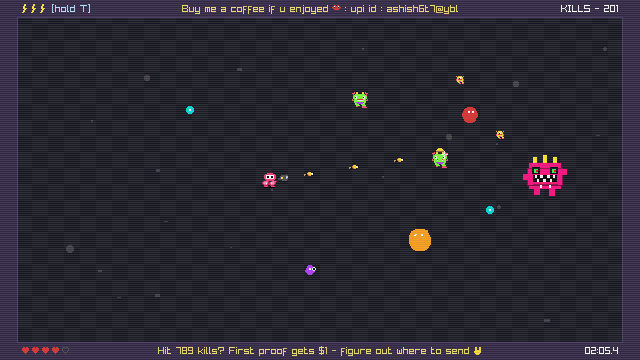
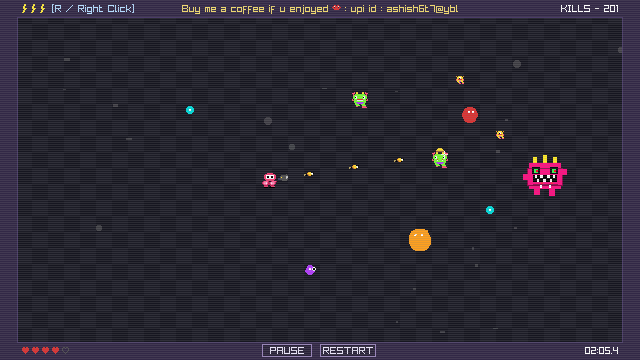
chore: update screenshots and README for v2.0.0 upgrades

diff --git a/README.md b/README.md
@@ -17,9 +17,9 @@ A deliberately ridiculous, endless, single-screen top-down 90s-arcade shooter. Y
 
 ## 🌐 Play Instantly in Your Browser (No Download Required!) ⚡
 
-### 👉 [**Click Here to Play DontTouchMyBum in Browser**](https://ashish6t7.github.io/DontTouchMyBum/) 🍑👾
+You can play the complete game right now directly in your web browser — powered by WebAssembly:
 
-<img width="1680" height="1050" alt="Screenshot 2026-11-26 at 10 57 19 AM" src="https://github.com/user-attachments/assets/679300d8-d9f1-4b02-8b05-9ae16d4e1cea" />
+### 👉 [**Click Here to Play DontTouchMyBum in Browser**](https://ashish6t7.github.io/DontTouchMyBum/) 🍑👾
 
 *Zero installation, zero setup, full 60fps arcade graphics & funny sound effects — simply open the link and defend your bums!*
 
@@ -56,13 +56,15 @@ At the start of the game, select your difficulty directly from the 3 visible int
 
 | Difficulty Level | Health & Healing | Style |
 |---|:---:|---|
-| **`1. Gentle Bum (Relaxed) 🍑✨`** | **6 Hearts**, Heals every **20 kills** | Relaxed, fun, and beginner-friendly arcade blasting |
-| **`2. Cheeky Bum (Balanced) 😈💋`** *(Default)* | **5 Hearts**, Heals every **30 kills** | Balanced, engaging arcade challenge |
-| **`3. Bum Apocalypse (Insane) 🍑🩸💀`** | **5 Hearts**, Heals every **40 kills** | Pure brutal hardcore chaos |
+| **`1. Gentle Bum (Relaxed) 🍑✌`** | **5 Hearts**, Heals every **20 kills** | Relaxed, fun, and beginner-friendly arcade blasting |
+| **`2. Cheeky Bum (Balanced) 💋`** *(Default)* | **5 Hearts**, Heals every **30 kills** | Balanced, engaging arcade challenge |
+| **`3. Bum Apocalypse (Insane) 🍑💀`** | **5 Hearts**, Heals every **40 kills** | Pure brutal hardcore chaos |
 
-### Additional Upgrades in v2.0.0:
-* **⚡ Thunder Ability (`[T]` key):** Ordinary BUM 🍑 protection wasn't enough, so hold `T` to unleash a devastating golden nuclear shockwave that vaporizes all on-screen monsters into sparks.
-* **🔊 New Funny Sound Effects and Dynamic Music** 
+### Additional Upgrades:
+* **⚡ Thunder Ability (`[R]` key or Right-Click):** Tap `R` or Right-Click to unleash a devastating golden nuclear shockwave that vaporizes all on-screen monsters into sparks. 40 kills = +1 ⚡ Thunder refill (up to max 3).
+* **🕺 New Zombie Monster "Disco":** Spawns every 35s with 50 HP and triggers custom procedural retro funky disco music! Killing Disco rewards +1 ❤ Heart refill (if hearts ≤ 3).
+* **💥 MiniBlob Invulnerability & Yellow Body:** Splitting MiniBlobs are bright yellow and get a 2.0-second invulnerability shield on birth before dying in 1 hit.
+* **🔊 Funny Sound Effects & 12-Kill Anime Wow:** Random monster giggles and dynamic anime streak sound effect on 12 consecutive kills without damage.
 * **💥 Sharp Bullet Visuals:** Real aerodynamic cartridge projectiles with supersonic luminous tracer streaks.
 * **⚡ Faster Fire Rate**
 * **👾 Monster Guide:** Full monster guide preserved right on the start screen alongside the difficulty bricks with live dynamic healing thresholds.
@@ -111,7 +113,7 @@ At the start of the game, select your difficulty directly from the 3 visible int
 
 ## 💖 Healing & The $1 Bounty
 
-* **Kills = +1 Heart:** Restores +1 Heart to keep you alive (20 kills on Kiddo, 30 kills on Not Bad, 40 kills on Save Your Peach)!
+* **Kills = +1 Heart:** Restores +1 Heart to keep you alive (20 kills on Gentle Bum, 30 kills on Cheeky Bum, 40 kills on Bum Apocalypse)!
 * **Vanishing Monster Defense:** When a monster touches your body, it consumes 1 heart and immediately dies and vanishes, triggering a 48px pushback shockwave and invulnerability.
 * **💰 The 789 Kills Challenge:** Hit **789 kills** in a single run, send the proof, and claim **$1**. Figure out where to send ✌
 * **☕ Buy Me A Coffee:** UPI ID: `ashish6t7@ybl` 💋
